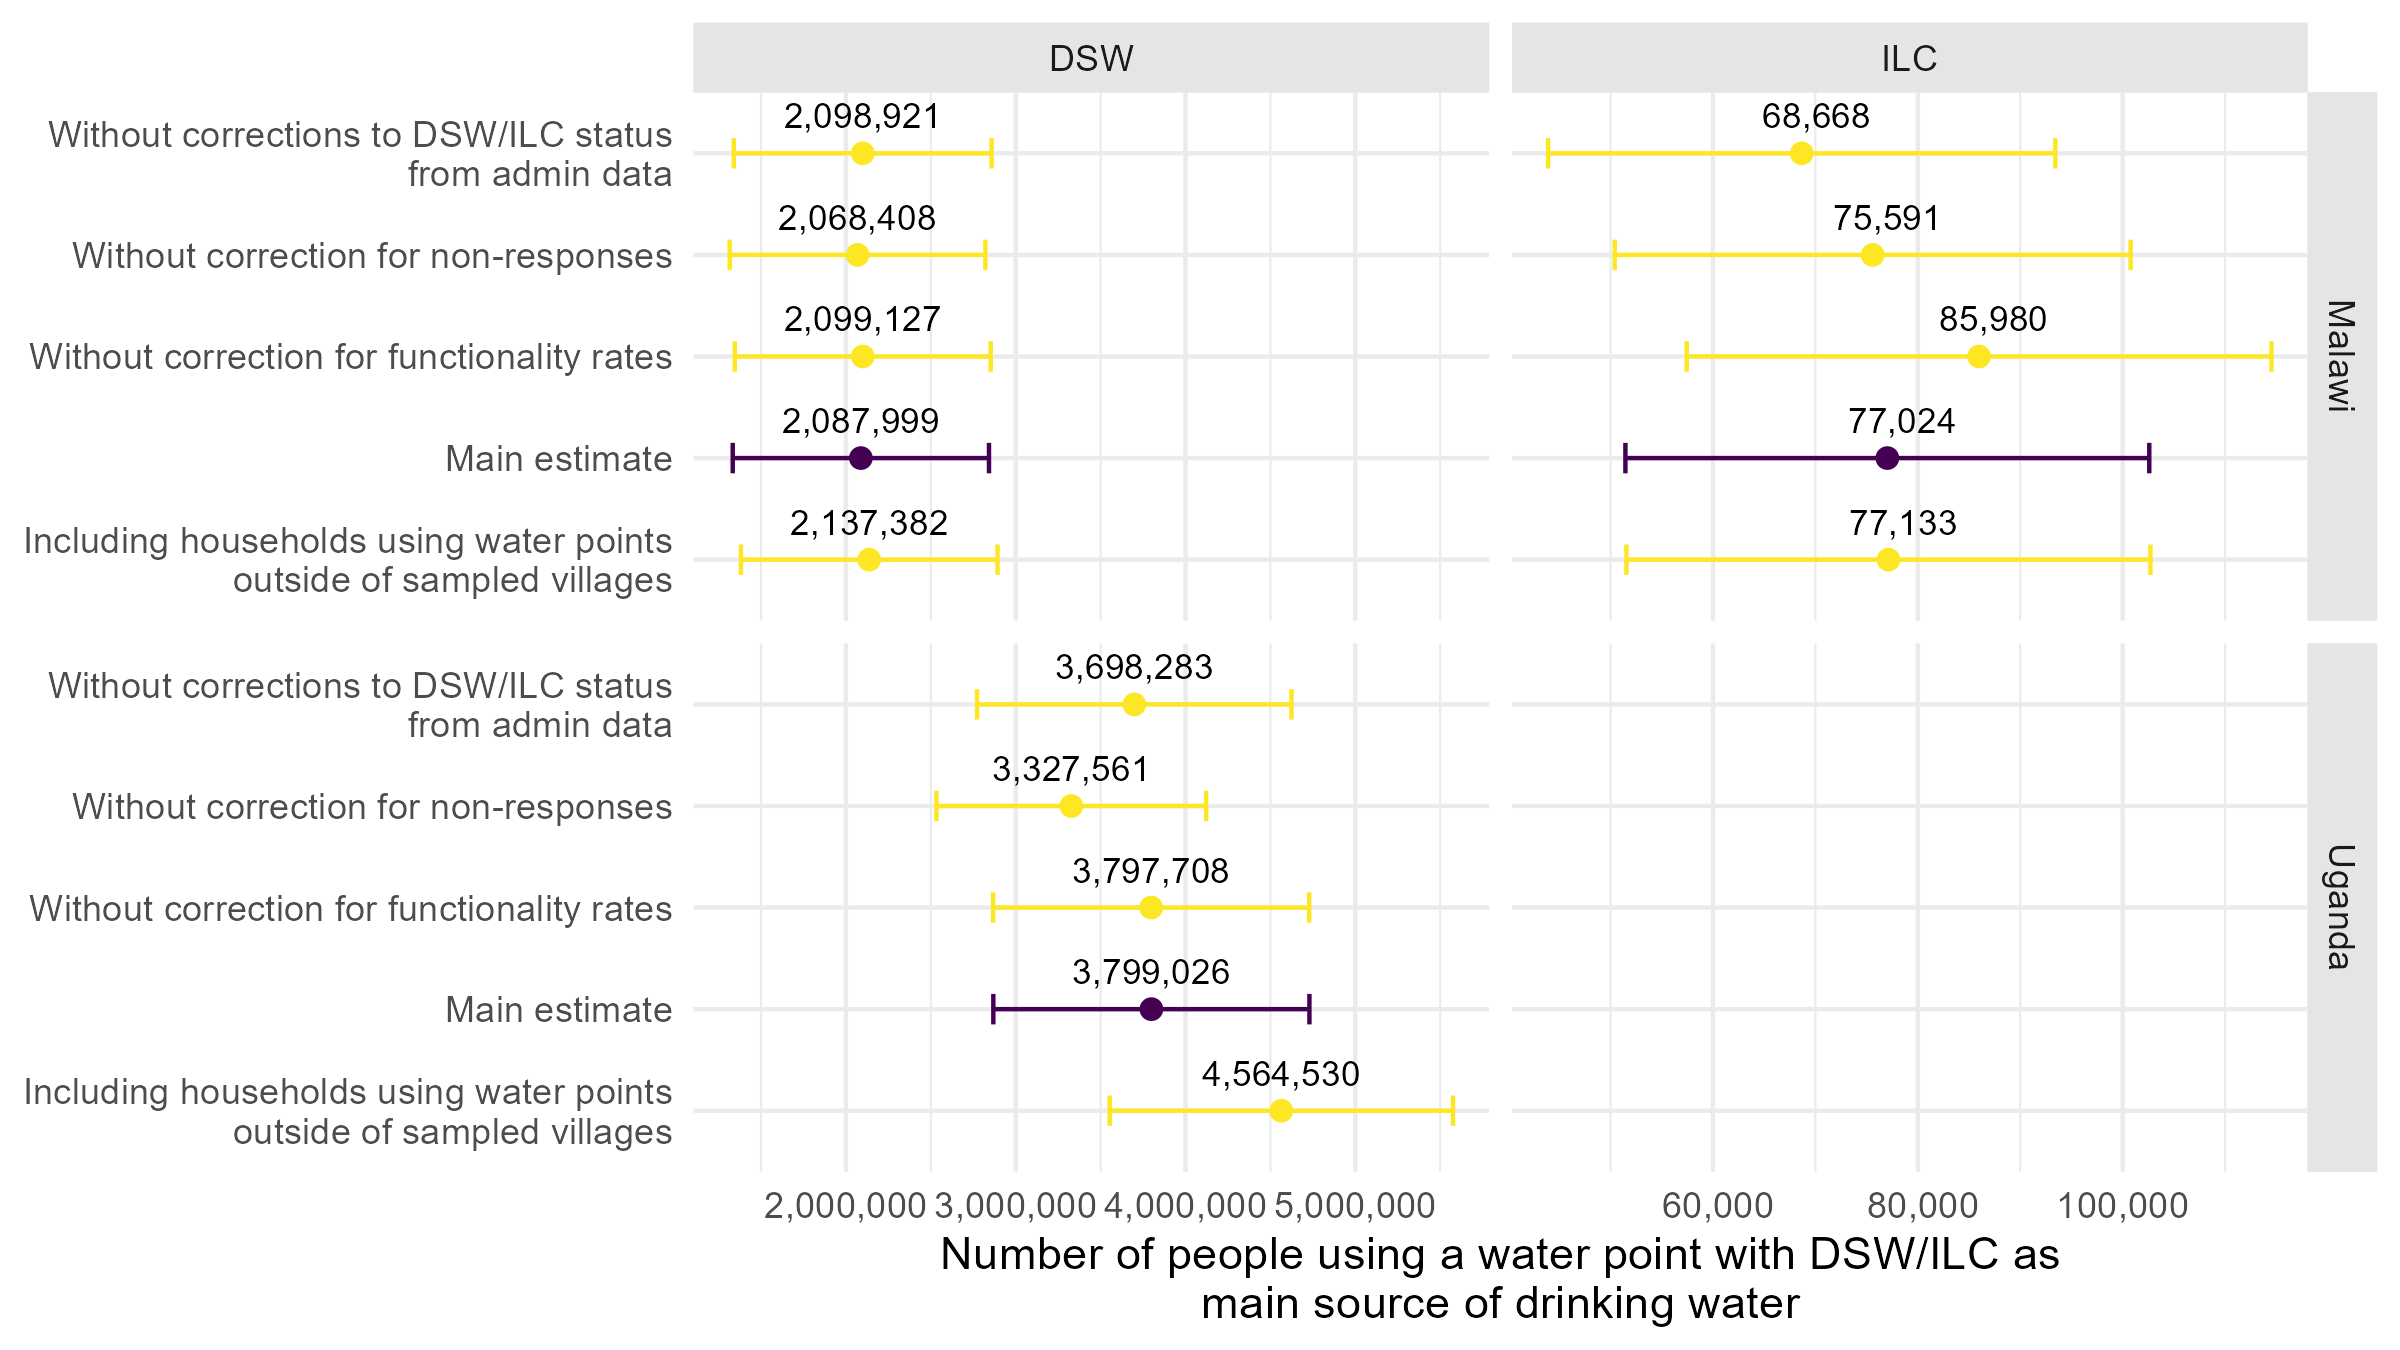
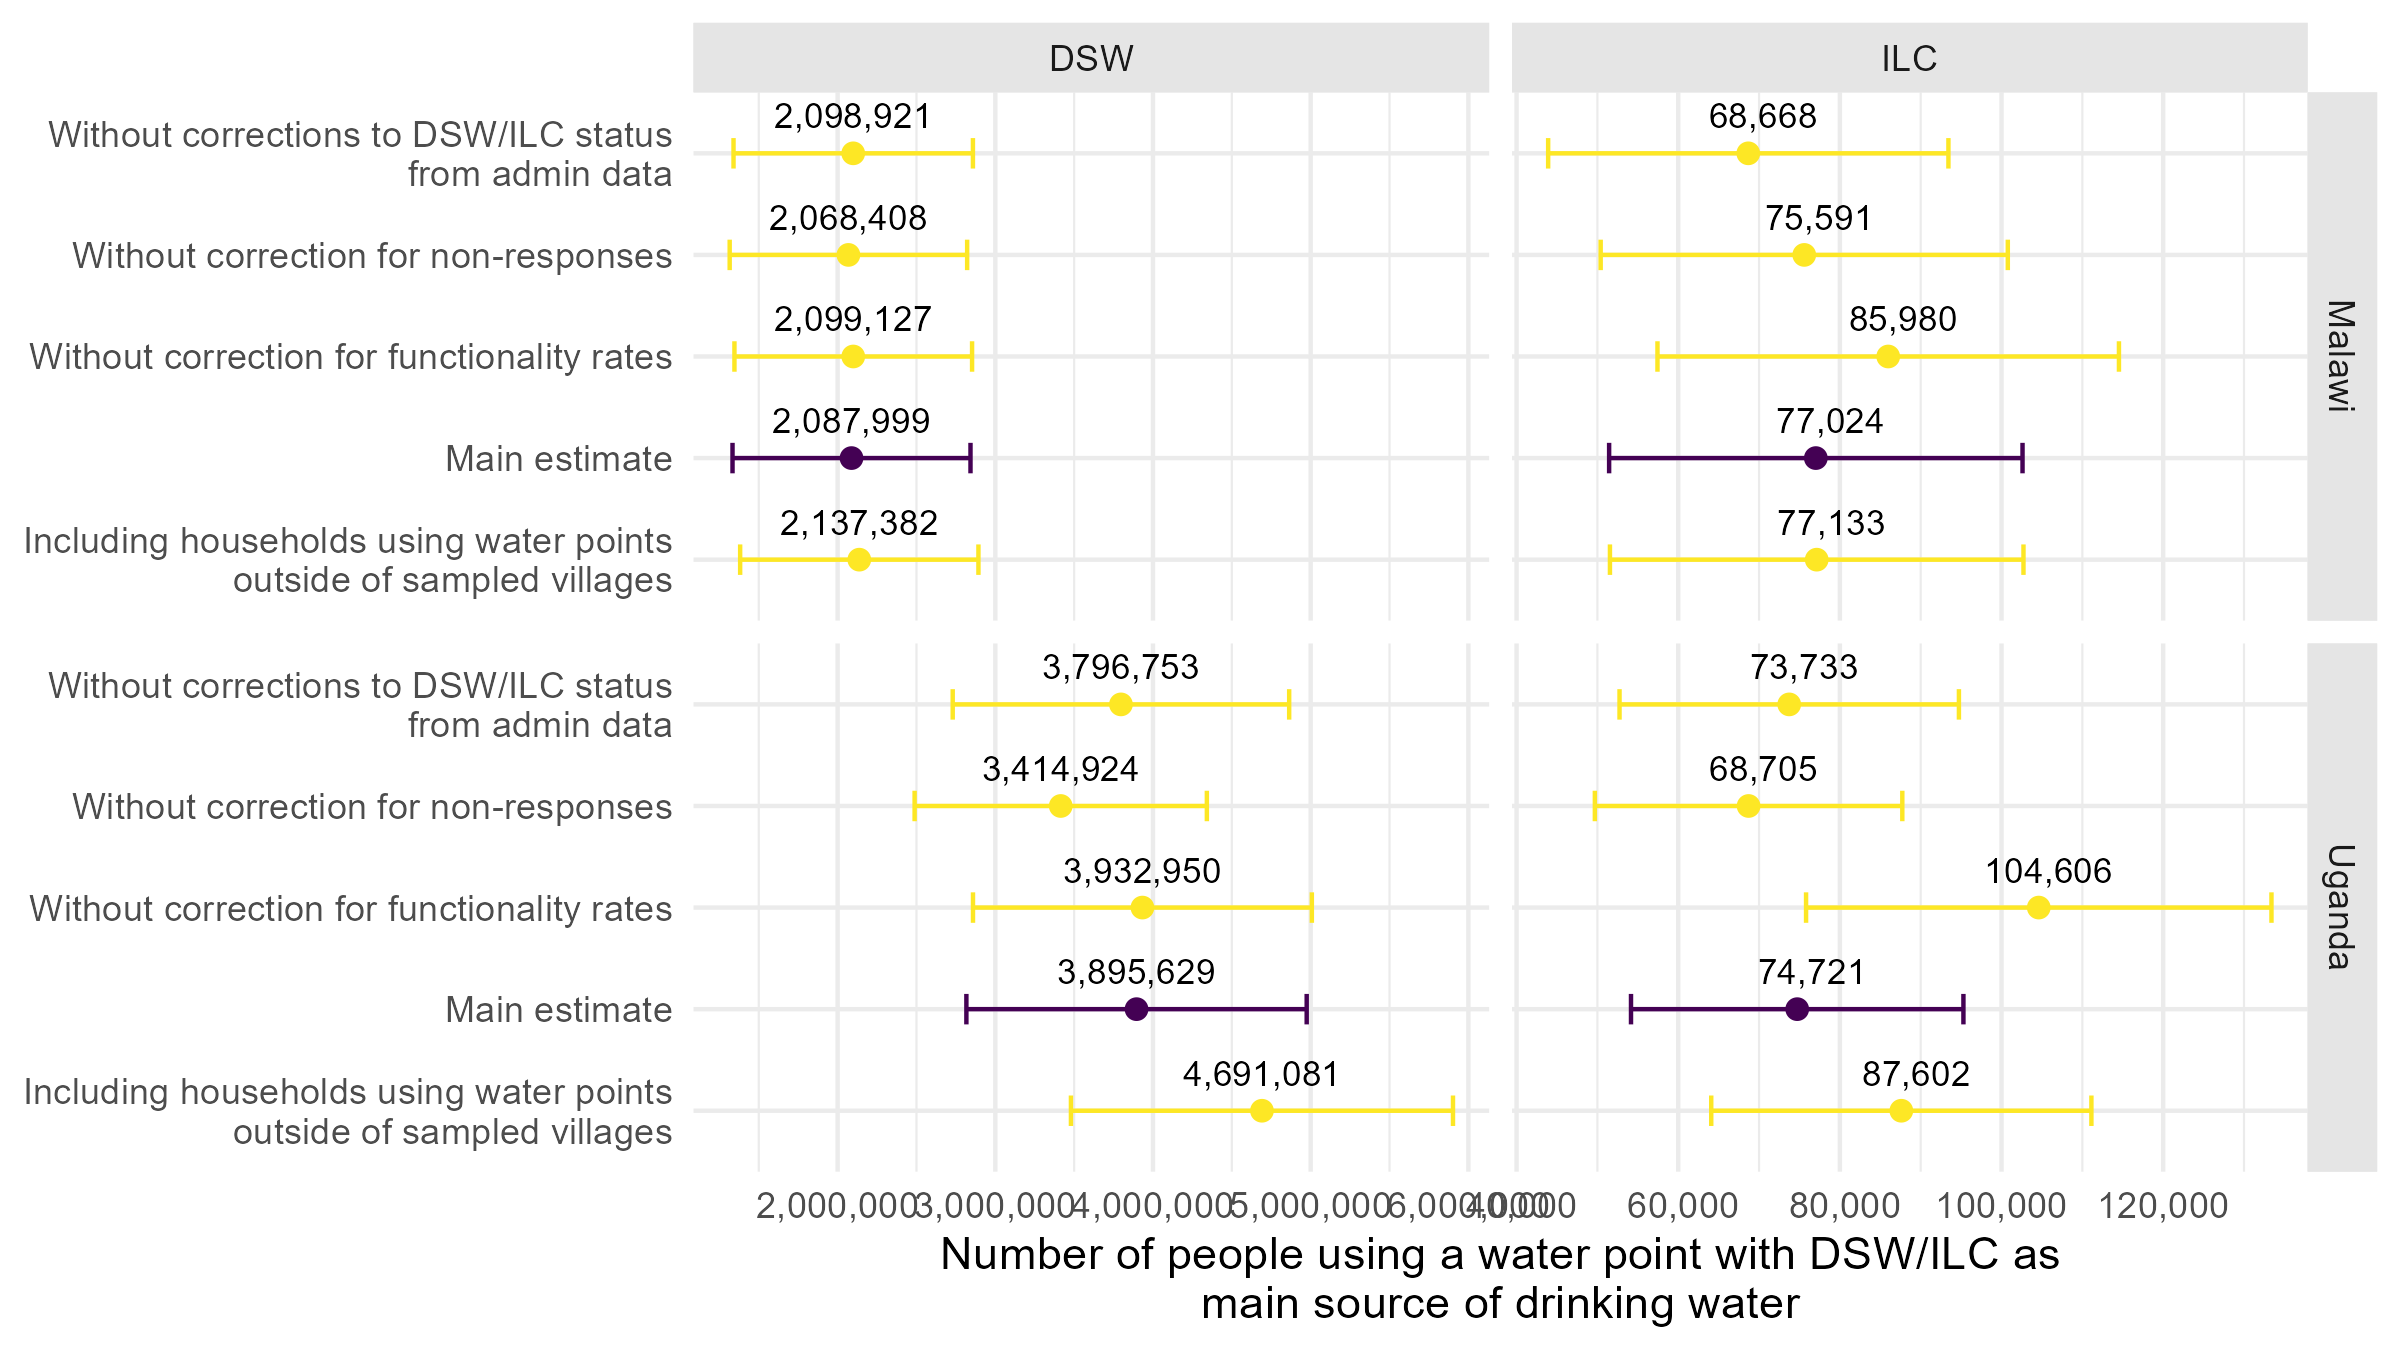
add Uganda ILC

diff --git a/Report/output/tables/headlines-wp.tex b/Report/output/tables/headlines-wp.tex
@@ -18,8 +18,10 @@ Intervention & \#Vil & \#HHs & \#Vil & \makecell[c]{People using\\DSW/ILC\\(95\%
 \hspace{1em} &  &  &  & (47,989, 96,853) &  &  & (19.1, 38.7) & (8, 19.5)\\
 \addlinespace[0.3em]
 \multicolumn{9}{l}{\textbf{Uganda}}\\
-\hspace{1em}DSW & 174 & 5,993 & 17,718 & 3,538,706 & 150 & 978 & 30.1 & 19.4\\
-\hspace{1em} &  &  &  & (2,889,444, 4,187,968) &  &  & (24.5, 35.7) & (14.7, 24.1)\\
+\hspace{1em}DSW & 266 & 7,867 & 18,116 & 3,582,640 & 228 & 1,379 & 24.7 & 15\\
+\hspace{1em} &  &  &  & (2,933,220, 4,232,060) &  &  & (20.3, 29.2) & (11.4, 18.7)\\
+ILC & 177 & 1,284 & 1,229 & 42,473 & 109 & 286 & 17.8 & 5.2\\
+ &  &  &  & (30,868, 54,077) &  &  & (11.7, 23.9) & (2.1, 8.3)\\
 \bottomrule
 \end{tabular}}
 \end{table}

diff --git a/Report/output/tables/headlines-vil.tex b/Report/output/tables/headlines-vil.tex
@@ -18,8 +18,10 @@ Intervention & \#Vil & \#HH & \#Vil & \makecell[c]{People using\\DSW/ILC\\(95\% 
 \hspace{1em} &  &  &  & (51,449, 102,598) &  &  & (19.1, 38.7) & (8, 19.5)\\
 \addlinespace[0.3em]
 \multicolumn{9}{l}{\textbf{Uganda}}\\
-\hspace{1em}DSW & 60 & 4,940 & 7,185 & 3,799,026 & 60 & 1,121 & 30.1 & 19.4\\
-\hspace{1em} &  &  &  & (2,868,202, 4,729,850) &  &  & (24.5, 35.7) & (14.6, 24.1)\\
+\hspace{1em}DSW & 93 & 6,379 & 7,834 & 3,895,629 & 96 & 1,529 & 24.7 & 15\\
+\hspace{1em} &  &  &  & (2,816,540, 4,974,717) &  &  & (20.6, 28.9) & (11.6, 18.5)\\
+ILC & 37 & 1,089 & 649 & 74,721 & 34 & 287 & 17.8 & 5.2\\
+ &  &  &  & (54,156, 95,285) &  &  & (11.7, 23.9) & (2.1, 8.3)\\
 \bottomrule
 \end{tabular}}
 \end{table}

diff --git a/Report/output/tables/headlines-wp-by-group.tex b/Report/output/tables/headlines-wp-by-group.tex
@@ -26,6 +26,10 @@
 \hspace{1em} &  &  &  &  & (1,861,370, 3,042,055) &  &  & (24.9, 39.4) & (14.5, 26.8)\\
 \hspace{1em}DSW & Footprint & 57 & 1,969 & 5,456 & 1,086,994 & 55 & 547 & 28 & 18\\
 \hspace{1em} &  &  &  &  & (816,740, 1,357,248) &  &  & (19.4, 36.5) & (10.8, 25.2)\\
+DSW & ILC & 92 & 1,874 & 398 & 43,934 & 78 & 408 & 11.7 & 4.5\\
+ &  &  &  &  & (29,635, 58,233) &  &  & (8.2, 15.2) & (2.3, 6.7)\\
+ILC & ILC & 177 & 1,284 & 1,229 & 42,473 & 109 & 287 & 17.8 & 5.2\\
+ &  &  &  &  & (30,868, 54,077) &  &  & (11.7, 23.9) & (2.1, 8.3)\\
 \bottomrule
 \end{tabular}}
 \end{table}

diff --git a/Report/output/tables/headlines-vil-by-group.tex b/Report/output/tables/headlines-vil-by-group.tex
@@ -26,6 +26,10 @@
 \hspace{1em} &  &  &  &  & (2,144,256, 3,638,380) &  &  & (24.9, 39.4) & (14.5, 26.8)\\
 \hspace{1em}DSW & Footprint & 30 & 1,479 & 5,456 & 907,708 & 30 & 547 & 28 & 18\\
 \hspace{1em} &  &  &  &  & (657,373, 1,158,043) &  &  & (19.4, 36.5) & (10.8, 25.2)\\
+DSW & ILC & 33 & 1,439 & 398 & 96,603 & 36 & 408 & 11.7 & 4.5\\
+ &  &  &  &  & (55,339, 137,867) &  &  & (8.2, 15.2) & (2.3, 6.7)\\
+ILC & ILC & 37 & 1,089 & 1,229 & 74,721 & 34 & 287 & 17.8 & 5.2\\
+ &  &  &  &  & (54,156, 95,285) &  &  & (11.7, 23.9) & (2.1, 8.3)\\
 \bottomrule
 \end{tabular}}
 \end{table}
